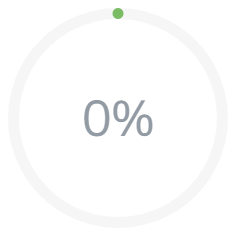
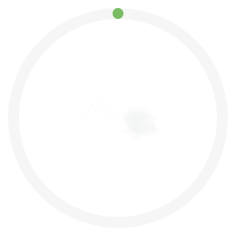
start testimonials section

Changed region(s): [[0.3529, 0.4135, 0.6471, 0.5907]]

diff --git a/src/components/AppInstructors.vue b/src/components/AppInstructors.vue
@@ -8,13 +8,13 @@ export default {
 </script>
 
 <template>
-    <section>
+    <section class="py-5">
         <div class="container">
             <div class="row">
                 <div class="col-7">
                     <div class="info_instructors d-flex flex-column">
                         <h2>Your Instructors</h2>
-                        <p>Lorem ipsum dolor sit amet consectetur adipisicing elit. Iusto ipsam
+                        <p class="py-4">Lorem ipsum dolor sit amet consectetur adipisicing elit. Iusto ipsam
                             laborum cupiditate
                             accusantium
                             mollitia odit quasi distinctio nemo impedit ullam vitae.
@@ -32,15 +32,15 @@ export default {
                 <div class="col-12">
                     <div class="d-flex gap-3 py-3">
                         <div v-for="instructor in this.DataInstructors" :key="instructor.name"
-                            class="card_instructors p-5 rounded">
+                            class="card_instructors p-5 rounded d-flex flex-column text-center">
                             <img :src="instructor.img" :alt="instructor.img">
-                            <h5>{{ instructor.name }}</h5>
+                            <h5 class="py-3 fw-bold">{{ instructor.name }}</h5>
                             <div>
-                                <span><i class="fa-brands fa-facebook"></i></span>
+                                <span><i class="fa-brands fa-facebook px-2"></i></span>
                                 <span><i class="fa-brands fa-twitter"></i></span>
-                                <span><i class="fa-brands fa-instagram"></i></span>
+                                <span><i class="fa-brands fa-instagram px-2"></i></span>
                             </div>
-                            <p>{{ instructor.text }}</p>
+                            <p class="py-2">{{ instructor.text }}</p>
                         </div>
                     </div>
                 </div>
@@ -65,19 +65,21 @@ export default {
 }
 
 .col-5 {
-    padding: 3rem 0 0 1.5rem;
+    padding: 4.5rem 0 0 1.5rem;
+
+    .btn_green {
+        border-radius: 100px 100px 100px 100px;
+        -moz-border-radius: 100px 100px 100px 100px;
+        -webkit-border-radius: 100px 100px 100px 100px;
+        border: 0px solid #000000;
+        background-color: #7ABC64;
+        color: #FFFFFF;
+        padding: .5rem 8rem;
+        white-space: nowrap;
+    }
 }
 
-.btn_green {
-    border-radius: 100px 100px 100px 100px;
-    -moz-border-radius: 100px 100px 100px 100px;
-    -webkit-border-radius: 100px 100px 100px 100px;
-    border: 0px solid #000000;
-    background-color: #7ABC64;
-    color: #FFFFFF;
-    padding: .5rem 5rem;
-    white-space: nowrap;
-}
+
 
 .card_instructors {
     -moz-box-shadow: -7px 11px 29px -7px rgba(133, 133, 133, 0.4);
@@ -86,5 +88,13 @@ export default {
     background-color: rgb(255, 255, 255);
     border-top: 7px solid #7ABC64;
     margin-top: 2rem;
+
+    h5 {
+        color: #494C4E;
+    }
+
+    p {
+        color: #929aa3;
+    }
 }
 </style>

diff --git a/src/components/AppPercentStat.vue b/src/components/AppPercentStat.vue
@@ -10,10 +10,11 @@ export default {
     <section class="bg_svg">
         <div class="container">
             <div class="row">
-                <div class="col-4">
+                <div class="col-12">
                     <div class="percent_drivers d-flex py-3 gap-2">
                         <div v-for="percent in this.DataPercent" :key="percent.title" class="percent_info rounded p-5">
                             <img :src="percent.img" :alt="percent.img">
+                            <div class="percent fs-1">{{ percent.percent }}</div>
                             <p class="text-center fw-bold">{{ percent.title }}</p>
                         </div>
                     </div>
@@ -25,8 +26,8 @@ export default {
 
 <style lang="scss" scoped>
 // .bg_svg {
-//     background-image: url(../assets/svg/driving-triangle.svg);
-//     background-size: cover;
+//     // background-image: url(../assets/svg/driving-triangle.svg);
+//     // background-size: 
 // }
 
 .container {
@@ -39,6 +40,15 @@ export default {
         background-color: rgb(255, 255, 255);
         border-top: 7px solid #7ABC64;
         margin-top: 2rem;
+
+        .percent {
+            position: absolute;
+            bottom: 0;
+            right: 50%;
+            top: 50%;
+            color: #929aa3;
+            transform: translate(60%, -35%);
+        }
 
         p {
             color: #929aa3;

diff --git a/src/components/AppMain.vue b/src/components/AppMain.vue
@@ -11,14 +11,17 @@ export default {
             ArrPercent: [
                 {
                     img: 'src/assets/img/95.png',
+                    percent: '95%',
                     title: 'PASS RATE',
                 },
                 {
                     img: 'src/assets/img/100.png',
+                    percent: '100%',
                     title: 'REFERRAL RATE',
                 },
                 {
                     img: 'src/assets/img/0.png',
+                    percent: '0%',
                     title: 'ACCIDENT RATE',
                 },
             ],
